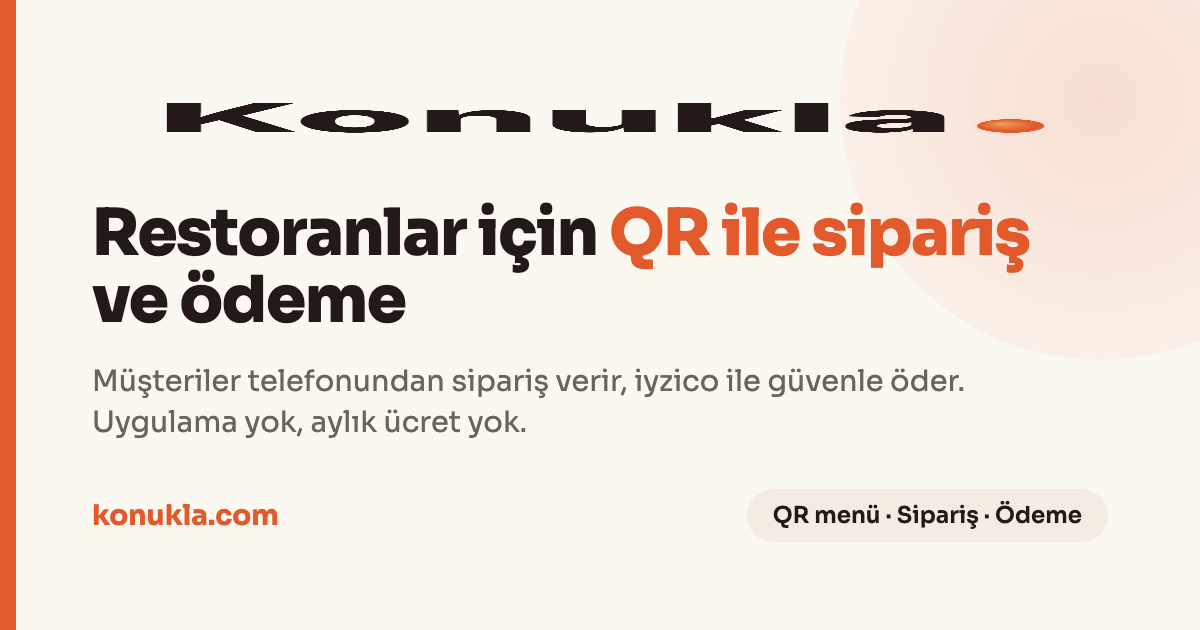
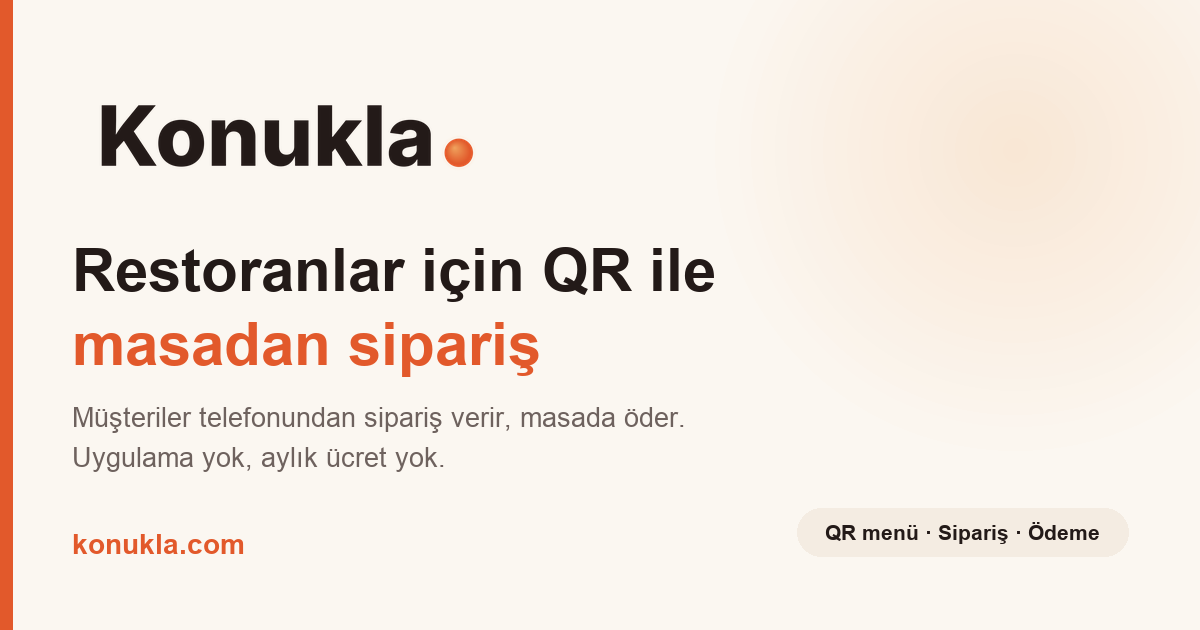
fix(seo): regenerate OG image (drop iyzico, clean wordmark) + explicit payment signals
- OG image (link preview) still said "iyzico ile öder" and had a distorted
  wordmark. Regenerated at 1200x630 using the official Konukla logo, reframed to
  "masada öder" (no payment-processor claim). Cache-bust og:image?v=2 + add
  og:image:alt so LinkedIn/crawlers refetch.
- Add payment story to meta/og/JSON-LD descriptions + a FAQPage schema
  ("ödemeler nasıl alınır" -> at the table, restaurant's own POS, Garanti BBVA
  iş birliği, Konukla ödeme işlemez) so AI re-crawls overwrite the stale iyzico
  association.

diff --git a/index.html b/index.html
@@ -4,7 +4,7 @@
 <meta charset="UTF-8">
 <meta name="viewport" content="width=device-width, initial-scale=1.0">
 <title>Konukla — Restoranlar için QR sipariş altyapısı</title>
-<meta name="description" content="Konukla, restoranlar için QR kodla masadan sipariş altyapısı. Müşteriler telefonlarından sipariş verir, ödemeye hazır olunca garsonu çağırır; siparişler anında mutfağa düşer. Uygulama yok, aylık ücret yok.">
+<meta name="description" content="Konukla, restoranlar için QR ile masadan sipariş çözümü. Müşteriler telefonlarından sipariş verir; ödeme masada, restoranın kendi POS cihazında kartla veya nakit, Garanti BBVA iş birliğiyle alınır. Konukla ödeme işlemez. Uygulama yok, aylık ücret yok.">
 <link rel="canonical" href="https://konukla.com/">
 <link rel="icon" href="/favicon.ico" sizes="any">
 <link rel="icon" type="image/svg+xml" href="/assets/konukla-favicon.svg">
@@ -14,13 +14,14 @@
 <link rel="apple-touch-icon" sizes="180x180" href="/assets/favicon-180.png">
 <meta property="og:type" content="website">
 <meta property="og:title" content="Konukla — Restoranlar için QR sipariş altyapısı">
-<meta property="og:description" content="Müşteriler QR kodu okutup telefonlarından sipariş veriyor; ödemeye hazır olunca tek dokunuşla garsonu çağırıyor. Uygulama yok, aylık ücret yok.">
-<meta property="og:image" content="https://konukla.com/assets/og-image.png">
+<meta property="og:description" content="Müşteriler QR ile telefonlarından sipariş veriyor; ödeme masada, restoranın kendi POS cihazında alınıyor. Garanti BBVA iş birliği. Uygulama yok, aylık ücret yok.">
+<meta property="og:image" content="https://konukla.com/assets/og-image.png?v=2">
 <meta property="og:image:width" content="1200">
 <meta property="og:image:height" content="630">
+<meta property="og:image:alt" content="Konukla — Restoranlar için QR ile masadan sipariş">
 <meta property="og:url" content="https://konukla.com">
 <meta name="twitter:card" content="summary_large_image">
-<meta name="twitter:image" content="https://konukla.com/assets/og-image.png">
+<meta name="twitter:image" content="https://konukla.com/assets/og-image.png?v=2">
 <script type="application/ld+json">
 {
   "@context": "https://schema.org",
@@ -33,7 +34,7 @@
       "url": "https://konukla.com",
       "logo": "https://konukla.com/assets/konukla-logo.png",
       "image": "https://konukla.com/assets/konukla-logo.png",
-      "description": "Restoran ve kafeler için QR kod ile masadan sipariş altyapısı. Müşteriler telefonlarından sipariş verir ve ödemeye hazır olunca garsonu çağırır.",
+      "description": "Restoran ve kafeler için QR kod ile masadan sipariş çözümü. Müşteriler telefonlarından sipariş verir; ödeme masada, restoranın kendi POS cihazında kartla veya nakit, Garanti BBVA iş birliğiyle alınır. Konukla ödeme işlemez veya kart bilgisi saklamaz.",
       "email": "[email redacted]",
       "telephone": "[phone redacted]",
       "sameAs": ["https://www.linkedin.com/company/konukla"],
@@ -53,6 +54,28 @@
       "name": "Konukla",
       "publisher": { "@id": "https://konukla.com/#organization" },
       "inLanguage": "tr-TR"
+    },
+    {
+      "@type": "FAQPage",
+      "@id": "https://konukla.com/#faq",
+      "mainEntity": [
+        {
+          "@type": "Question",
+          "name": "Konukla ödemeleri nasıl alınır?",
+          "acceptedAnswer": {
+            "@type": "Answer",
+            "text": "Ödeme masada, restoranın kendi POS cihazında kartla veya nakit alınır. Müşteri siparişini Konukla ile verir, ödemeye hazır olunca garsonu çağırır ve garson POS cihazını masaya getirir. Konukla ödemeyi işlemez; ödeme çözümü Garanti BBVA iş birliğiyle sunulur."
+          }
+        },
+        {
+          "@type": "Question",
+          "name": "Konukla kart bilgisi saklar mı veya online ödeme alır mı?",
+          "acceptedAnswer": {
+            "@type": "Answer",
+            "text": "Hayır. Konukla online ödeme almaz, kart bilgisi işlemez veya saklamaz. Ödeme yalnızca masada, restoranın kendi POS terminalinde gerçekleşir. Ödeme çözümü Garanti BBVA iş birliğiyledir."
+          }
+        }
+      ]
     }
   ]
 }